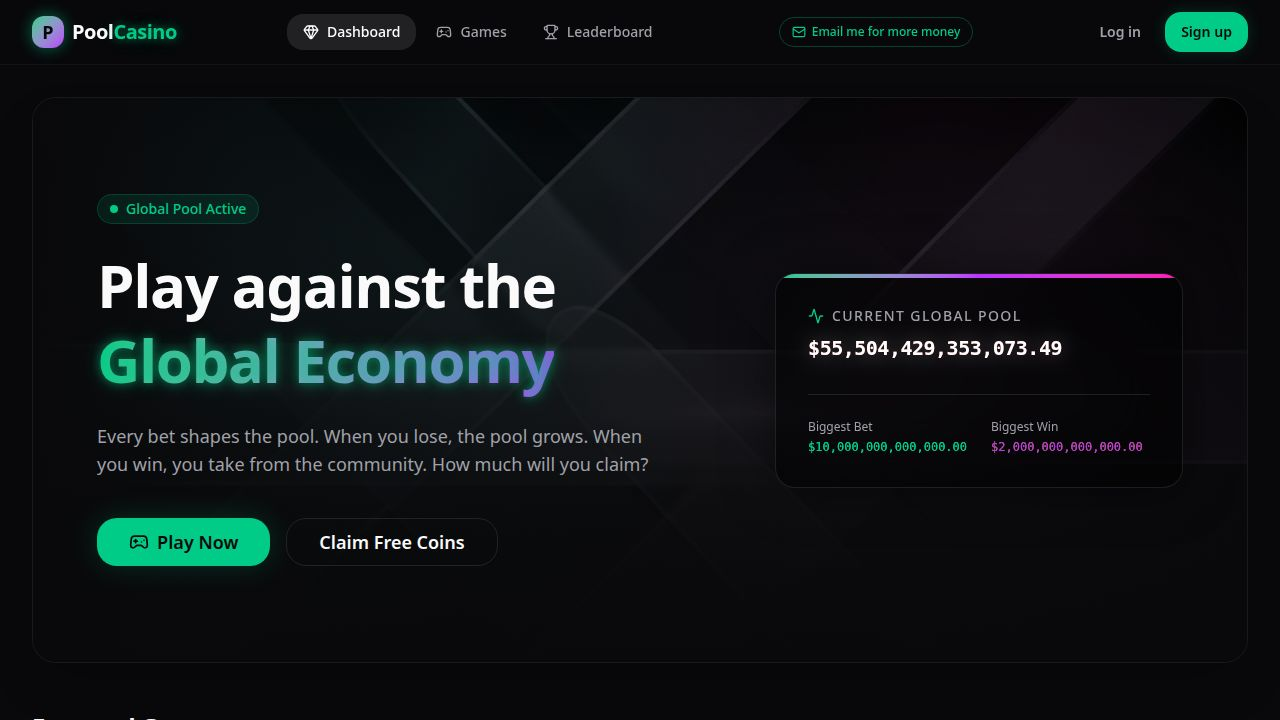
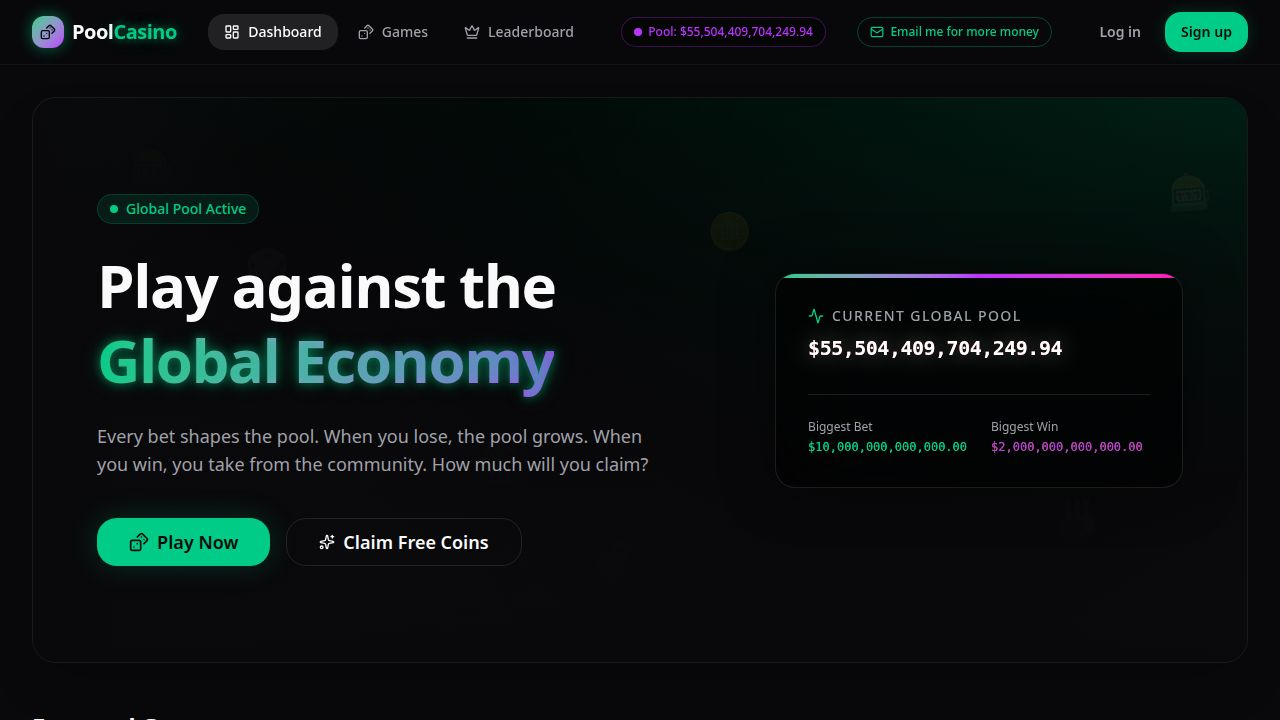
Ensure balances update live and fix transaction errors
Update layout to poll user and pool balances every 3 seconds, and correct query keys in game pages to prevent balance evaporation.

Replit-Commit-Author: Agent
Replit-Commit-Session-Id: bd91b846-5ca3-4150-a3bd-4ac01861fb0e
Replit-Commit-Checkpoint-Type: full_checkpoint
Replit-Commit-Event-Id: d99e98fe-2f12-4099-89c3-bf7e67bf2cb7
Replit-Commit-Screenshot-Url: https://storage.googleapis.com/screenshot-production-us-central1/b880271f-6686-4c58-918f-732bf4a51358/bd91b846-5ca3-4150-a3bd-4ac01861fb0e/tWmgr31
Replit-Helium-Checkpoint-Created: true

diff --git a/artifacts/pool-casino/src/components/layout.tsx b/artifacts/pool-casino/src/components/layout.tsx
@@ -1,6 +1,6 @@
 import React from "react";
 import { Link, useLocation } from "wouter";
-import { useGetMe, useLogout } from "@workspace/api-client-react";
+import { useGetMe, useGetPool, useLogout } from "@workspace/api-client-react";
 import { useQueryClient } from "@tanstack/react-query";
 import { formatCurrency } from "@/lib/utils";
 import { Coins, LogOut, User as UserIcon, Menu, X, Mail, Dices, Crown, LayoutDashboard, MessageSquare, UserPlus } from "lucide-react";
@@ -10,7 +10,8 @@ import { useGuestSession } from "@/hooks/use-guest-session";
 
 export function Layout({ children }: { children: React.ReactNode }) {
   const [location] = useLocation();
-  const { data: user, isLoading } = useGetMe({ query: { retry: false } });
+  const { data: user, isLoading } = useGetMe({ query: { retry: false, refetchInterval: 3000 } });
+  const { data: pool } = useGetPool({ query: { refetchInterval: 3000 } });
   const logoutMut = useLogout();
   const queryClient = useQueryClient();
   const [mobileMenuOpen, setMobileMenuOpen] = React.useState(false);
@@ -71,6 +72,17 @@ export function Layout({ children }: { children: React.ReactNode }) {
                 );
               })}
             </nav>
+
+            {/* Live Pool Balance */}
+            {pool && (
+              <div className="hidden md:flex items-center gap-1.5 text-xs font-medium px-3 py-1.5 rounded-full border border-accent/30 bg-black/40 text-accent">
+                <span className="relative flex h-2 w-2">
+                  <span className="animate-ping absolute inline-flex h-full w-full rounded-full bg-accent opacity-60"></span>
+                  <span className="relative inline-flex rounded-full h-2 w-2 bg-accent"></span>
+                </span>
+                Pool: {formatCurrency(pool.totalAmount)}
+              </div>
+            )}
 
             {/* Email Button */}
             <a

diff --git a/artifacts/pool-casino/src/pages/blackjack.tsx b/artifacts/pool-casino/src/pages/blackjack.tsx
@@ -151,8 +151,8 @@ export default function Blackjack() {
       setGameState(data);
       if (data.done) {
         setPhase("done");
-        qc.invalidateQueries({ queryKey: ["getMe"] });
-        qc.invalidateQueries({ queryKey: ["getPool"] });
+        qc.invalidateQueries({ queryKey: ["/api/auth/me"] });
+        qc.invalidateQueries({ queryKey: ["/api/pool"] });
         toast({
           title: OUTCOME_LABELS[data.outcome ?? ""] ?? "Game Over",
           description: data.payout ? `Payout: ${formatCurrency(data.payout)}` : "",
@@ -172,8 +172,8 @@ export default function Blackjack() {
       } else {
         setActionState(data);
         setPhase("done");
-        qc.invalidateQueries({ queryKey: ["getMe"] });
-        qc.invalidateQueries({ queryKey: ["getPool"] });
+        qc.invalidateQueries({ queryKey: ["/api/auth/me"] });
+        qc.invalidateQueries({ queryKey: ["/api/pool"] });
         toast({
           title: OUTCOME_LABELS[data.outcome ?? ""] ?? "Game Over",
           description: data.payout ? `Payout: ${formatCurrency(data.payout)}` : "",

diff --git a/artifacts/pool-casino/src/pages/mines.tsx b/artifacts/pool-casino/src/pages/mines.tsx
@@ -147,8 +147,8 @@ export default function Mines() {
     const data = await api.call("mines", { betAmount: bet, minesCount, revealCount: Math.min(revealCount, maxReveal) });
     if (data) {
       setResult(data);
-      qc.invalidateQueries({ queryKey: ["getMe"] });
-      qc.invalidateQueries({ queryKey: ["getPool"] });
+      qc.invalidateQueries({ queryKey: ["/api/auth/me"] });
+      qc.invalidateQueries({ queryKey: ["/api/pool"] });
       toast({
         title: data.hitMine ? "💥 BOOM! You hit a mine!" : `✅ Safe! ${data.multiplier}×`,
         description: data.hitMine ? `Lost ${formatCurrency(bet)}` : `Won ${formatCurrency(data.payout)}!`,

diff --git a/artifacts/pool-casino/src/pages/crash.tsx b/artifacts/pool-casino/src/pages/crash.tsx
@@ -116,8 +116,8 @@ export default function Crash() {
           setDisplayMult(parseFloat(data.cashOutAt.toFixed(2)));
           setResult(data);
           setRunning(false);
-          qc.invalidateQueries({ queryKey: ["getMe"] });
-          qc.invalidateQueries({ queryKey: ["getPool"] });
+          qc.invalidateQueries({ queryKey: ["/api/auth/me"] });
+          qc.invalidateQueries({ queryKey: ["/api/pool"] });
           toast({
             title: data.won ? `🚀 Cashed out at ${data.cashOutAt}×!` : `💥 Crashed at ${data.crashAt}×`,
             description: data.won ? `Won ${formatCurrency(data.payout)}!` : `Lost ${formatCurrency(bet)}`,

diff --git a/artifacts/pool-casino/src/pages/coinflip.tsx b/artifacts/pool-casino/src/pages/coinflip.tsx
@@ -104,8 +104,8 @@ export default function CoinFlip() {
       if (data) {
         setCoinSide(data.result as "heads" | "tails");
         setResult(data);
-        qc.invalidateQueries({ queryKey: ["getMe"] });
-        qc.invalidateQueries({ queryKey: ["getPool"] });
+        qc.invalidateQueries({ queryKey: ["/api/auth/me"] });
+        qc.invalidateQueries({ queryKey: ["/api/pool"] });
         toast({
           title: data.won ? `${data.result === "heads" ? "👑" : "⚡"} ${data.result.toUpperCase()}!` : `It's ${data.result}!`,
           description: data.won ? `Won ${formatCurrency(data.payout)}!` : `Lost ${formatCurrency(bet)}`,

diff --git a/artifacts/pool-casino/src/pages/slots.tsx b/artifacts/pool-casino/src/pages/slots.tsx
@@ -123,8 +123,8 @@ export default function Slots() {
         setSpinning(false);
         setTimeout(() => {
           setResult(data);
-          qc.invalidateQueries({ queryKey: ["getMe"] });
-          qc.invalidateQueries({ queryKey: ["getPool"] });
+          qc.invalidateQueries({ queryKey: ["/api/auth/me"] });
+          qc.invalidateQueries({ queryKey: ["/api/pool"] });
           toast({
             title: data.won ? `${data.reels.map(r => SYMBOLS[r]?.emoji).join("")} Jackpot!` : "No match this time",
             description: data.won ? `${data.multiplier}× — Won ${formatCurrency(data.payout)}!` : "Keep spinning!",

diff --git a/artifacts/pool-casino/src/pages/guess.tsx b/artifacts/pool-casino/src/pages/guess.tsx
@@ -93,8 +93,8 @@ export default function Guess() {
       setRevealing(false);
       if (data) {
         setResult(data);
-        qc.invalidateQueries({ queryKey: ["getMe"] });
-        qc.invalidateQueries({ queryKey: ["getPool"] });
+        qc.invalidateQueries({ queryKey: ["/api/auth/me"] });
+        qc.invalidateQueries({ queryKey: ["/api/pool"] });
         toast({
           title: data.distance === 0 ? "🎯 EXACT MATCH!" : data.multiplier > 0 ? `Within ${data.distance}!` : `Off by ${data.distance}`,
           description: data.won ? `Won ${formatCurrency(data.payout)}!` : `Lost ${formatCurrency(bet)}`,

diff --git a/artifacts/pool-casino/src/pages/wheel.tsx b/artifacts/pool-casino/src/pages/wheel.tsx
@@ -120,8 +120,8 @@ export default function Wheel() {
     setTimeout(() => {
       setSpinning(false);
       setResult(data);
-      qc.invalidateQueries({ queryKey: ["getMe"] });
-      qc.invalidateQueries({ queryKey: ["getPool"] });
+      qc.invalidateQueries({ queryKey: ["/api/auth/me"] });
+      qc.invalidateQueries({ queryKey: ["/api/pool"] });
       toast({
         title: data.multiplier >= 1 ? `${data.segment} — ${data.won ? "Win!" : "Push"}` : `${data.segment}`,
         description: data.won ? `Won ${formatCurrency(data.payout)}!` : `Got back ${formatCurrency(data.payout)}`,

diff --git a/artifacts/pool-casino/src/pages/dice.tsx b/artifacts/pool-casino/src/pages/dice.tsx
@@ -100,8 +100,8 @@ export default function Dice() {
       if (data) {
         setDieValue(data.rolled);
         setResult(data);
-        qc.invalidateQueries({ queryKey: ["getMe"] });
-        qc.invalidateQueries({ queryKey: ["getPool"] });
+        qc.invalidateQueries({ queryKey: ["/api/auth/me"] });
+        qc.invalidateQueries({ queryKey: ["/api/pool"] });
         toast({
           title: data.won ? `🎲 Rolled ${data.rolled}! You Win!` : `Rolled ${data.rolled}`,
           description: data.won ? `Won ${formatCurrency(data.payout)}!` : "Better luck next time",
